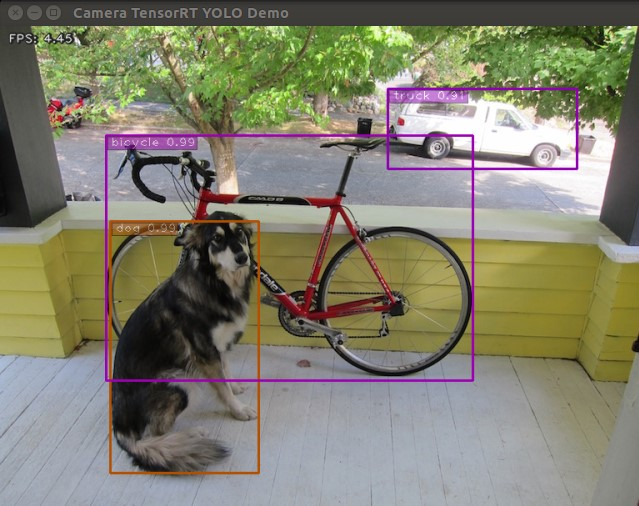
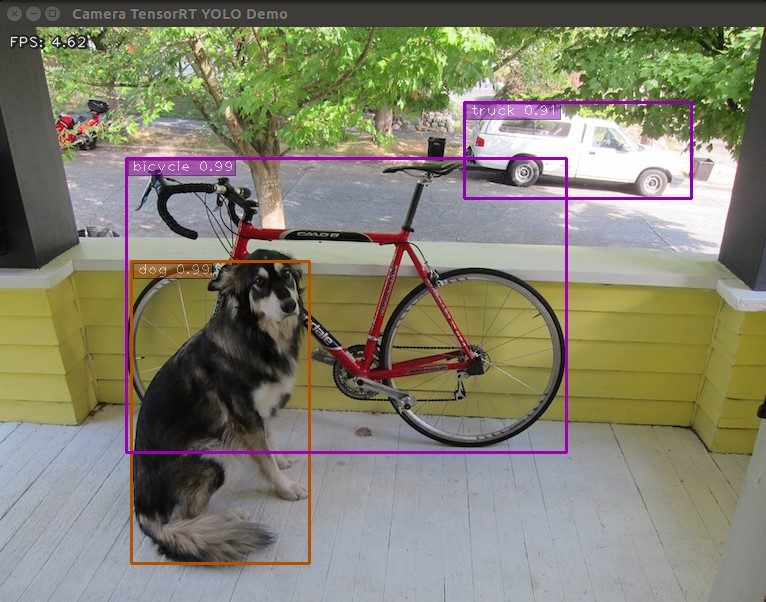
Update documentation for the new 'Camera' implemetation

diff --git a/README.md b/README.md
@@ -2,13 +2,15 @@
 
 Examples demonstrating how to optimize caffe/tensorflow/darknet models with TensorRT and run inferencing on NVIDIA Jetson or x86_64 PC platforms.
 
-* Run an optimized "yolov4-416" object detector at ~4.4 FPS on Jetson Nano.
-* Run an optimized "yolov3-416" object detector at ~4.7 FPS on Jetson Nano.
+* Run an optimized "yolov4-416" object detector at ~4.6 FPS on Jetson Nano.
+* Run an optimized "yolov3-416" object detector at ~4.9 FPS on Jetson Nano.
 * Run an optimized "ssd_mobilenet_v1_coco" object detector ("trt_ssd_async.py") at 27~28 FPS on Jetson Nano.
 * Run a very accurate optimized "MTCNN" face detector at 6~11 FPS on Jetson Nano.
 * Run an optimized "GoogLeNet" image classifier at "~16 ms per image (inference only)" on Jetson Nano.
 * In addition to Jetson Nano, all demos also work on Jetson TX2, AGX Xavier, Xavier NX ([link](https://github.com/jkjung-avt/tensorrt_demos/issues/19#issue-517897927) and [link](https://github.com/jkjung-avt/tensorrt_demos/issues/30)), and run much faster!
 * All demos work on x86_64 PC with NVIDIA GPU(s) as well.  Some minor tweaks would be needed.  Please refer to [README_x86.md](https://github.com/jkjung-avt/tensorrt_demos/blob/master/README_x86.md) for more information.
+
+**[2020-08-18 update]**  I have optimized my "Camera" module code.  As a result, the FPS numbers of the TensorRT yolov3/yolov4 models have been improved.  With this particular update, I've also simplified the command-line arguments and the API of the Camera.  Please refer to step 5 of Demo #1 for details.
 
 Table of contents
 -----------------
@@ -59,7 +61,7 @@ In case you are setting up a Jetson Nano or Jetson Xavier NX from scratch to run
 Demo #1: GoogLeNet
 ------------------
 
-This demo illustrates how to convert a prototxt file and a caffemodel file into a tensorrt engine file, and to classify images with the optimized tensorrt engine.
+This demo illustrates how to convert a prototxt file and a caffemodel file into a TensorRT engine file, and to classify images with the optimized TensorRT engine.
 
 Step-by-step:
 
@@ -118,7 +120,7 @@ Step-by-step:
 Demo #2: MTCNN
 --------------
 
-This demo builds upon the previous one.  It converts 3 sets of prototxt and caffemodel files into 3 tensorrt engines, namely the PNet, RNet and ONet.  Then it combines the 3 engine files to implement MTCNN, a very good face detector.
+This demo builds upon the previous one.  It converts 3 sets of prototxt and caffemodel files into 3 TensorRT engines, namely the PNet, RNet and ONet.  Then it combines the 3 engine files to implement MTCNN, a very good face detector.
 
 Assuming this repository has been cloned at "${HOME}/project/tensorrt_demos", follow these steps:
 
@@ -305,19 +307,19 @@ Assuming this repository has been cloned at "${HOME}/project/tensorrt_demos", fo
 
    | TensorRT engine        | mAP @<br>IoU=0.5:0.95 |  mAP @<br>IoU=0.5  | FPS on Nano |
    |:-----------------------|:---------------------:|:------------------:|:-----------:|
-   | yolov3-tiny-288 (FP16) |         0.077         |        0.158       |     28.2    |
-   | yolov3-tiny-416 (FP16) |         0.096         |        0.201       |     21.4    |
-   | yolov3-288 (FP16)      |         0.331         |        0.600       |     7.68    |
-   | yolov3-416 (FP16)      |         0.373         |        0.663       |     4.73    |
-   | yolov3-608 (FP16)      |         0.376         |        0.664       |     2.47    |
-   | yolov3-spp-288 (FP16)  |         0.339         |        0.594       |     7.66    |
-   | yolov3-spp-416 (FP16)  |         0.391         |        0.663       |     4.62    |
-   | yolov3-spp-608 (FP16)  |         0.409         |        0.685       |     2.43    |
-   | yolov4-tiny-288 (FP16) |         0.178         |        0.344       |     28.5    |
-   | yolov4-tiny-416 (FP16) |         0.195         |        0.386       |     21.3    |
-   | yolov4-288 (FP16)      |         0.371         |        0.590       |     7.41    |
-   | yolov4-416 (FP16)      |         0.453         |        0.698       |     4.45    |
-   | yolov4-608 (FP16)      |         0.483         |        0.735       |     2.28    |
+   | yolov3-tiny-288 (FP16) |         0.077         |        0.158       |     35.8    |
+   | yolov3-tiny-416 (FP16) |         0.096         |        0.201       |     25.5    |
+   | yolov3-288 (FP16)      |         0.331         |        0.600       |     8.16    |
+   | yolov3-416 (FP16)      |         0.373         |        0.663       |     4.93    |
+   | yolov3-608 (FP16)      |         0.376         |        0.664       |     2.53    |
+   | yolov3-spp-288 (FP16)  |         0.339         |        0.594       |     8.16    |
+   | yolov3-spp-416 (FP16)  |         0.391         |        0.663       |     4.82    |
+   | yolov3-spp-608 (FP16)  |         0.409         |        0.685       |     2.49    |
+   | yolov4-tiny-288 (FP16) |         0.178         |        0.344       |     36.6    |
+   | yolov4-tiny-416 (FP16) |         0.195         |        0.386       |     25.5    |
+   | yolov4-288 (FP16)      |         0.371         |        0.590       |     7.93    |
+   | yolov4-416 (FP16)      |         0.453         |        0.698       |     4.62    |
+   | yolov4-608 (FP16)      |         0.483         |        0.735       |     2.35    |
 
 7. Check out my blog posts for implementation details:
 
